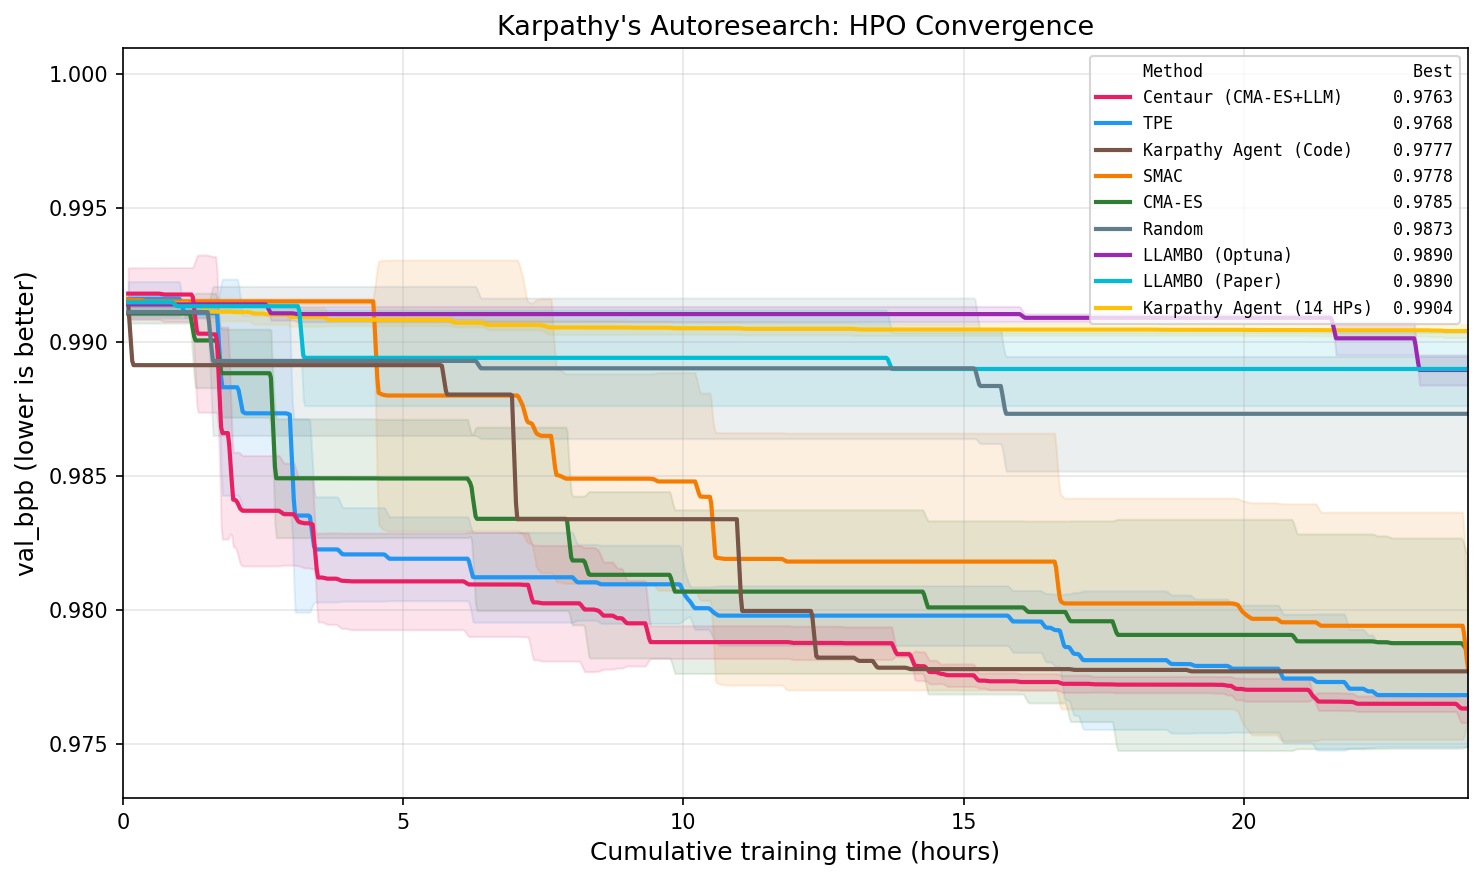
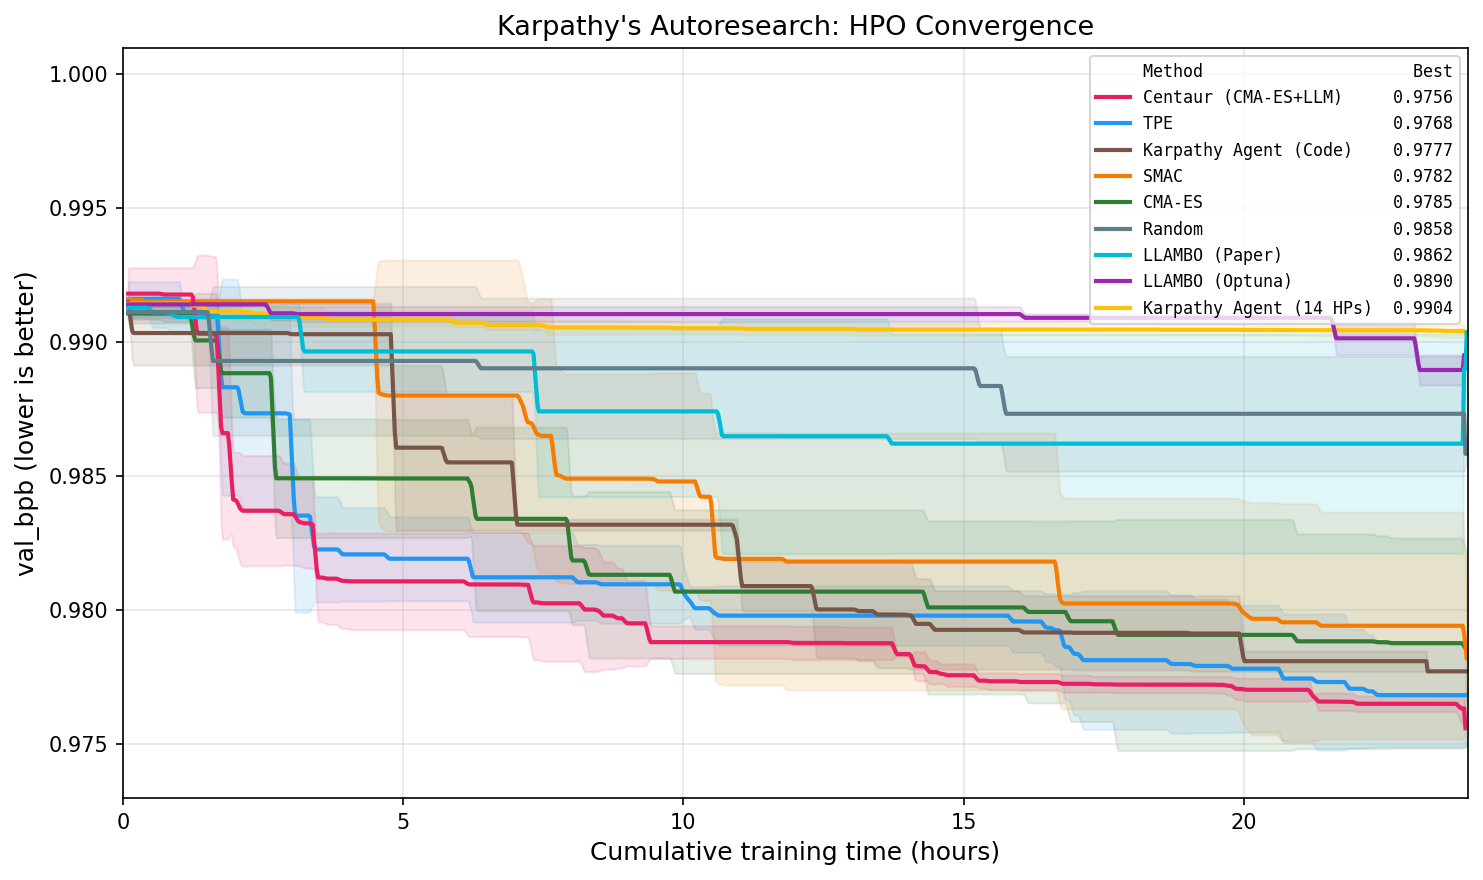
Hard 24h cap on all analyses and plots, 95% filter, refresh stale results

diff --git a/scripts/plot_convergence.py b/scripts/plot_convergence.py
@@ -22,6 +22,18 @@ def load_trials(jsonl_path: Path) -> list[dict]:
     return trials
 
 
+def cap_trials_at_budget(trials: list[dict], budget_hours: float = 24.0) -> list[dict]:
+    """Return only trials within the training time budget."""
+    cum = 0.0
+    capped = []
+    for t in trials:
+        cum += (t.get("wall_time_seconds") or 0.0) / 3600
+        if cum > budget_hours:
+            break
+        capped.append(t)
+    return capped
+
+
 def best_so_far(trials: list[dict]) -> list[float]:
     """Compute incumbent (best val_bpb so far) at each trial."""
     best = float("inf")
@@ -33,8 +45,11 @@ def best_so_far(trials: list[dict]) -> list[float]:
     return curve
 
 
-def cumulative_walltime(trials: list[dict]) -> tuple[list[float], list[float]]:
-    """Return (cumulative_training_hours, incumbent_val_bpb) for wall-time plots."""
+def cumulative_walltime(trials: list[dict], cap_hours: float = 24.0) -> tuple[list[float], list[float]]:
+    """Return (cumulative_training_hours, incumbent_val_bpb) for wall-time plots.
+
+    Trials beyond cap_hours of cumulative training time are excluded.
+    """
     cum_time = 0.0
     best = float("inf")
     times = []
@@ -42,9 +57,11 @@ def cumulative_walltime(trials: list[dict]) -> tuple[list[float], list[float]]:
     for t in trials:
         wt = t.get("wall_time_seconds") or 0.0
         cum_time += wt
+        if cum_time / 3600 > cap_hours:
+            break
         if t["success"] and t["val_bpb"] is not None:
             best = min(best, t["val_bpb"])
-        times.append(cum_time / 3600)  # convert to hours
+        times.append(cum_time / 3600)
         values.append(best)
     return times, values
 
@@ -61,7 +78,7 @@ def plot_convergence_walltime(
     fig, ax = plt.subplots(figsize=(10, 6))
 
     MIN_TRIALS = 100
-    MIN_BUDGET_FRAC = 0.99  # only include seeds that reached 99% of 24h budget
+    MIN_BUDGET_FRAC = 0.95  # only include seeds that reached 95% of 24h budget
     BUDGET_SECONDS = 86400
     INTERP_HOURS = np.linspace(0, 24, 1000)  # interpolate to common time grid
 
@@ -143,7 +160,7 @@ def plot_convergence_multi(
     fig, ax = plt.subplots(figsize=(10, 6))
 
     MIN_TRIALS = 100  # skip seeds with fewer trials
-    MIN_BUDGET_FRAC = 0.99  # only include seeds that reached 99% of 24h budget
+    MIN_BUDGET_FRAC = 0.95  # only include seeds that reached 95% of 24h budget
     BUDGET_SECONDS = 86400
 
     max_trials = 0
@@ -154,7 +171,7 @@ def plot_convergence_multi(
             jsonl = results_dir / backend_dir / f"seed_{seed}" / "trials.jsonl"
             if not jsonl.exists():
                 continue
-            trials = load_trials(jsonl)
+            trials = cap_trials_at_budget(load_trials(jsonl))
             if len(trials) < MIN_TRIALS:
                 continue
             total_train_s = sum(t.get("wall_time_seconds") or 0.0 for t in trials)

diff --git a/scripts/analyze_diversity.py b/scripts/analyze_diversity.py
@@ -94,7 +94,15 @@ def main():
             jsonl = RESULTS / backend_dir / f"seed_{seed}" / "trials.jsonl"
             if not jsonl.exists():
                 continue
-            trials = load_trials(jsonl)
+            # Cap trials at 24h training budget
+            raw_trials = load_trials(jsonl)
+            trials = []
+            cum_s = 0.0
+            for t in raw_trials:
+                cum_s += t.get("wall_time_seconds") or 0.0
+                if cum_s > BUDGET_SECONDS:
+                    break
+                trials.append(t)
             if len(trials) < 100:
                 continue
 
